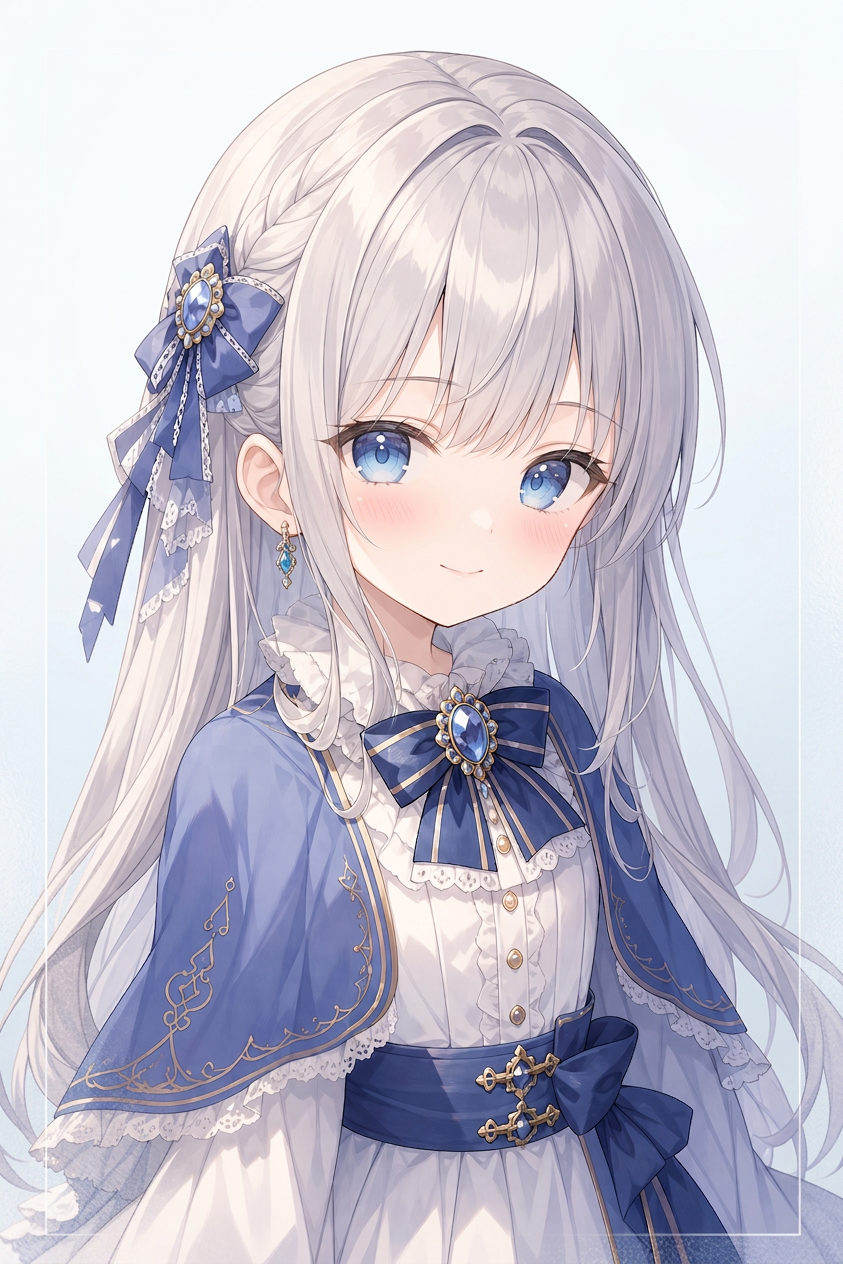
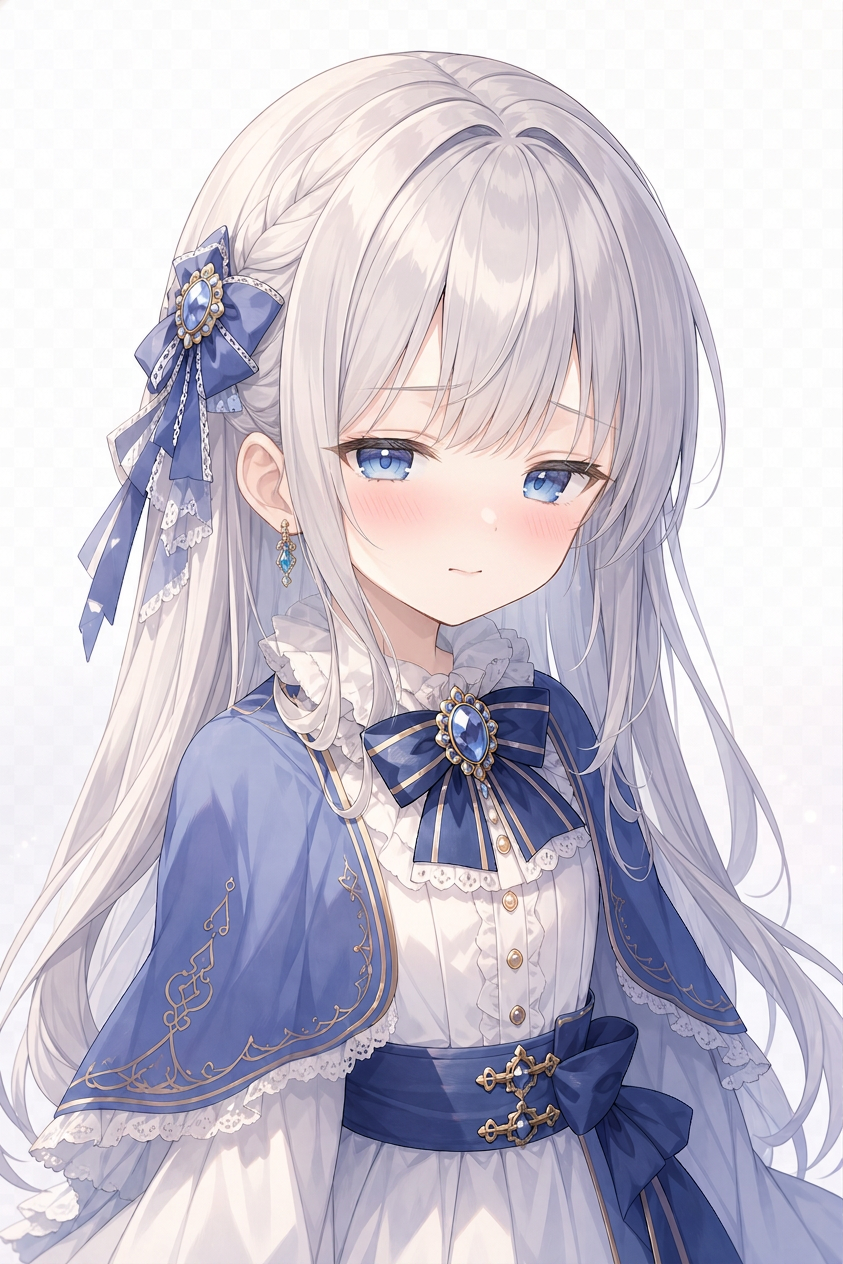
Keep only matching-background young diffs and add serious, surprised, shy.
Remove earlier young variants that changed the portrait background. New serious/surprised/shy keep the transparent base. Teary and wink still pending.

diff --git a/assets/portraits/named/README.md b/assets/portraits/named/README.md
@@ -1,14 +1,15 @@
 # 正式命名立绘
 
 规则：`<角色>_<阶段>_<表情>.png`
-- teenage = 15岁
-- young = 8岁
 
 ## teenage
 sylvia_teenage_normal / sad / serious / sleepy / surprised / teary / wink
 
 ## young
-sylvia_young_normal / serious / sad / shy / wink
+sylvia_young_normal
+sylvia_young_sad          （上一轮通过）
+sylvia_young_serious      （本轮：同一透明底，闭嘴）
+sylvia_young_surprised    （本轮：同一透明底，张嘴）
+sylvia_young_shy          （本轮：同一透明底，脸红）
 
-待补：teary / surprised
-wink 使用上一版（本次重做未眨眼，未覆盖）
+待补：teary / wink
